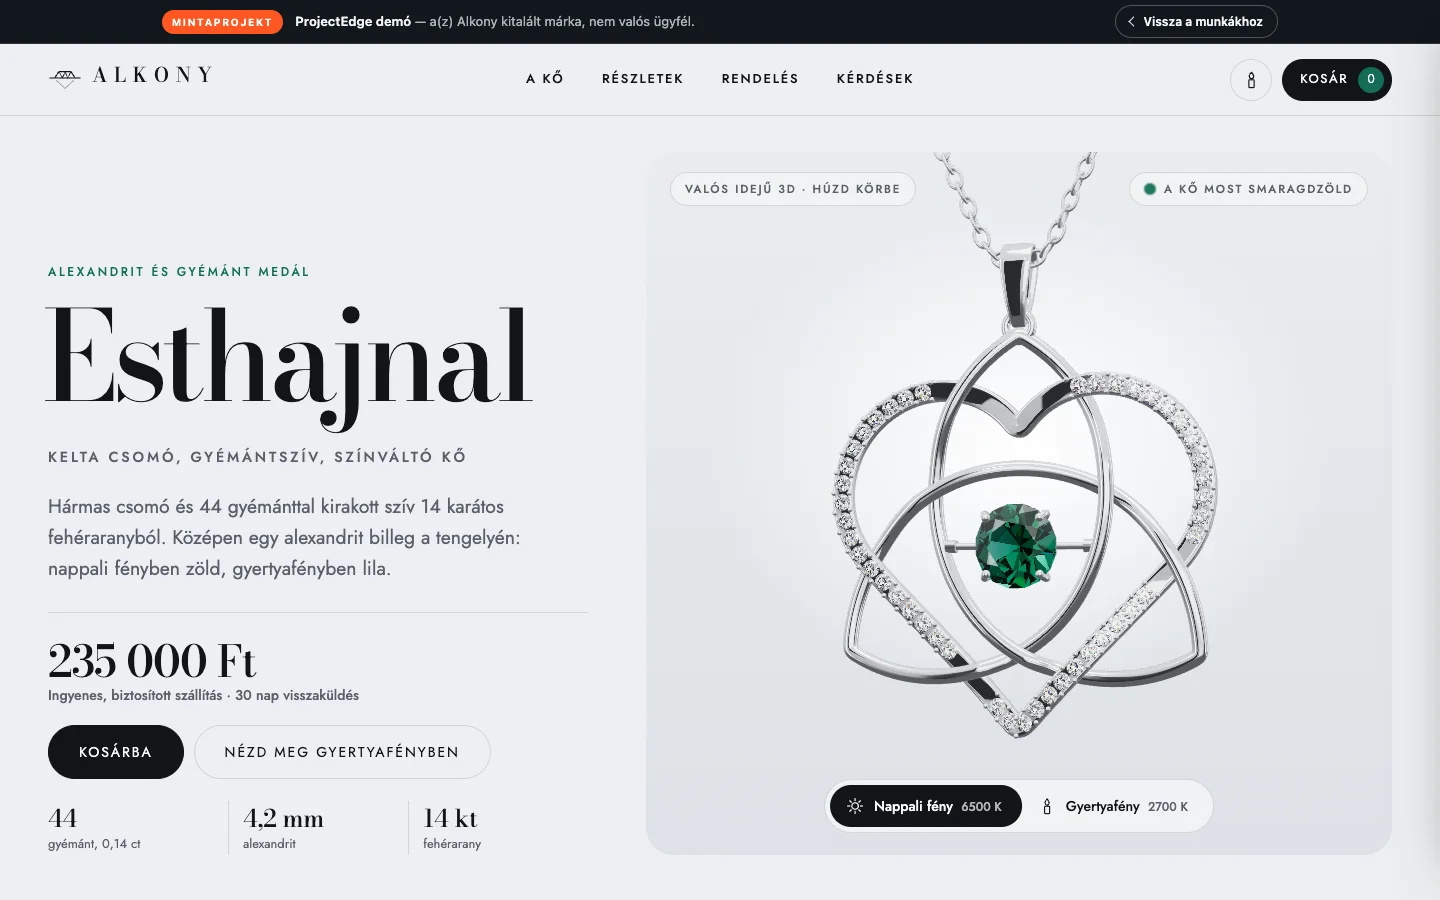
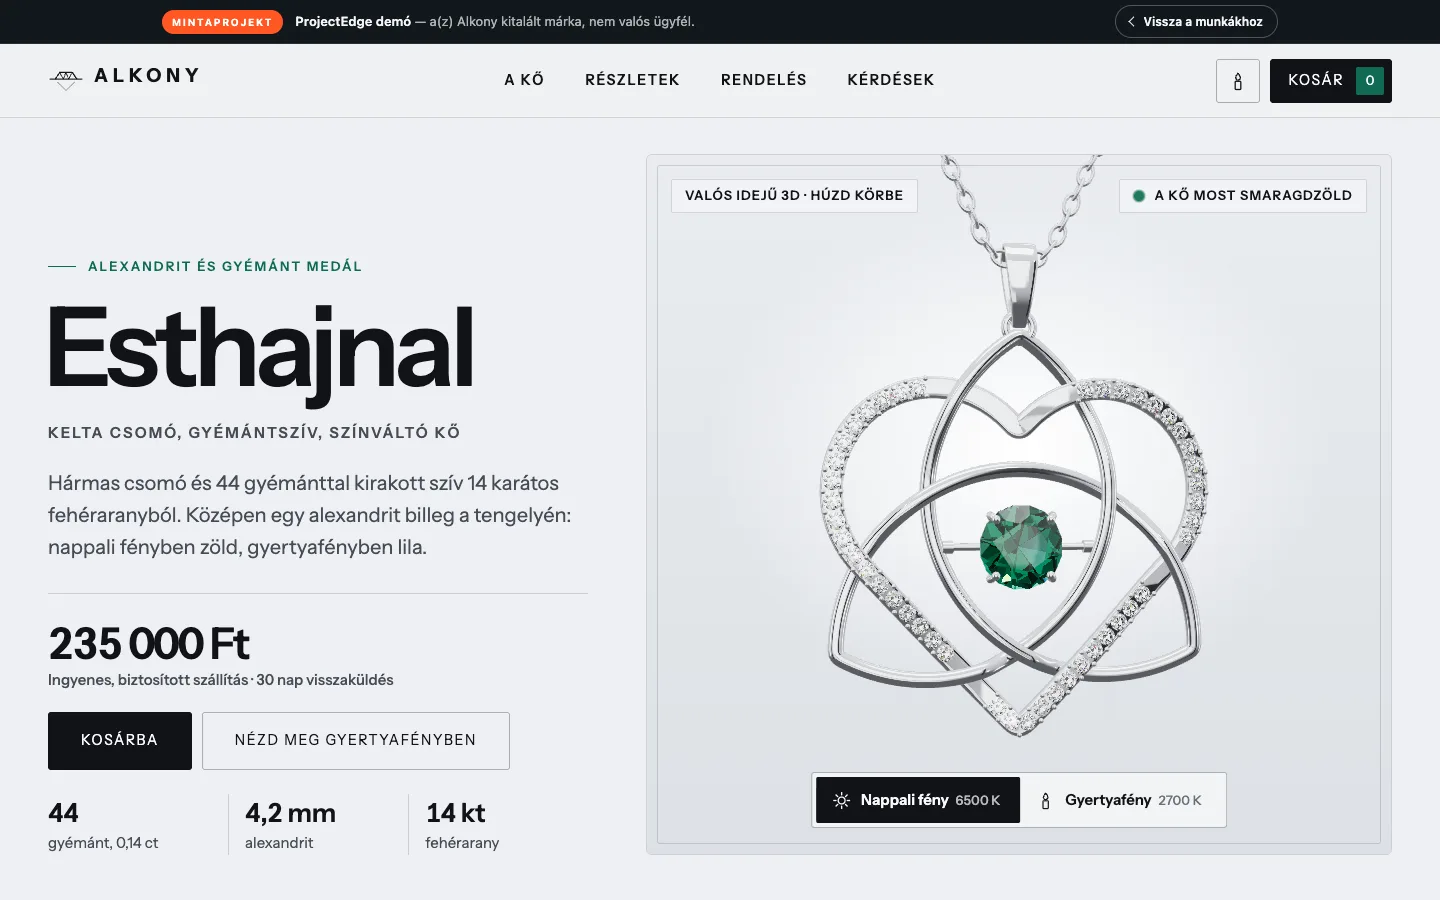
fix(demo): Alkony — Bodoni ki az egesz oldalrol, telefonon a ko a csuszka felett
A Didone betu (Esthajnal cim, logo, 235 000 Ft) hajszalvonalai nagy meretben
is vekonynak, zavaronak hattak: mostantol az egesz oldal Instrument Sans,
a cimek sulyat a 600-as vastagsag es a szuk betukoz adja.

Telefonon a ko kore fent, a fenyhomerseklet-csuszka a hosszu leiras utan
volt: huzas kozben a ko mar kint volt a kepbol. Most a szoveg jon elore,
a ko es a csuszka kozvetlenul egymas ala kerul, a kor merete pedig a
kepernyo magassagahoz igazodik, hogy egyutt latszodjanak (375x667-en is).

A munkak bélyegkepe ujrafotozva az uj allapotrol.

diff --git a/app/demo/alkony/alkony.css b/app/demo/alkony/alkony.css
@@ -4,9 +4,10 @@
    termék lényege — az alexandrit is ettől vált színt —, ezért az egész lap
    vele együtt áll át.
 
-   Tipográfia: a Bodoni csak NAGY méretben szerepel (H1, H2, nagy ár, logó).
-   Kicsiben a hajszálvonalai szálkásak és zavaróak voltak; minden más egy
-   erős groteszk, 15 px-es alsó határral és sötétebb másodlagos színnel.
+   Tipográfia: egyetlen erős groteszk mindenhol, 15 px-es alsó határral és
+   sötétebb másodlagos színnel. Didone (Bodoni) betű SEHOL — a hajszálvonalai
+   nagy címben és az árban is vékonynak, zavarónak hatottak. A címek súlyát
+   a méret, a 600-as vastagság és a szűk betűköz adja.
 
    Dobozok: ékszerdoboz-keret (hajszálvonal + belső második vonal), alig
    lekerekítve, árnyék nélkül — a lebegő, nagy sugarú kártyák SaaS-hatásúak
@@ -27,7 +28,6 @@
   --button-bg: #111317;
   --button-ink: #f9fafb;
   --r: 3px;
-  --display: var(--ak-display), "Bodoni Moda", Didot, serif;
   --sans: var(--ak-sans), "Instrument Sans", ui-sans-serif, system-ui, sans-serif;
   --ease: cubic-bezier(0.22, 1, 0.36, 1);
   --shift: 0.9s ease;
@@ -112,11 +112,10 @@
 }
 
 .ak-root h2 {
-  font-family: var(--display);
-  font-size: clamp(44px, 5.4vw, 80px);
-  font-weight: 500;
-  letter-spacing: -0.02em;
-  line-height: 1;
+  font-size: clamp(40px, 5vw, 72px);
+  font-weight: 600;
+  letter-spacing: -0.035em;
+  line-height: 1.02;
 }
 
 /* ─── logó ─────────────────────────────────────────────────────────────── */
@@ -133,11 +132,10 @@
 }
 
 .ak-logo-word {
-  font-family: var(--display);
-  font-size: 21px;
-  font-weight: 600;
-  letter-spacing: 0.3em;
-  margin-right: -0.3em;
+  font-size: 19px;
+  font-weight: 700;
+  letter-spacing: 0.26em;
+  margin-right: -0.26em;
   text-transform: uppercase;
 }
 
@@ -316,14 +314,13 @@
 }
 
 .ak-h1-name {
-  font-family: var(--display);
-  font-size: clamp(68px, 8.6vw, 140px);
-  font-weight: 500;
-  letter-spacing: -0.035em;
-  line-height: 0.86;
+  font-size: clamp(60px, 7.6vw, 124px);
+  font-weight: 600;
+  letter-spacing: -0.045em;
+  line-height: 0.92;
   margin-left: -0.04em;
-  /* a Bodoni „j" szára mélyre lóg: helyet kap, mielőtt az alcím jön */
-  padding-bottom: 0.2em;
+  /* a „j" szára lelóg: helyet kap, mielőtt az alcím jön */
+  padding-bottom: 0.12em;
 }
 
 .ak-h1-sub {
@@ -356,17 +353,16 @@
 
 .ak-price {
   display: grid;
-  font-family: var(--display);
-  font-size: clamp(40px, 3.3vw, 50px);
+  font-size: clamp(36px, 3vw, 46px);
+  font-variant-numeric: tabular-nums;
   font-weight: 600;
   gap: 6px;
-  letter-spacing: -0.01em;
+  letter-spacing: -0.03em;
   line-height: 1.02;
 }
 
 .ak-price small {
   color: var(--muted);
-  font-family: var(--sans);
   font-size: 15px;
   font-weight: 500;
   letter-spacing: 0;
@@ -1072,10 +1068,11 @@
 .ak-sheet-price {
   border-bottom: 1px solid var(--line);
   display: grid;
-  font-family: var(--display);
-  font-size: clamp(38px, 3.2vw, 48px);
+  font-size: clamp(34px, 2.9vw, 44px);
+  font-variant-numeric: tabular-nums;
   font-weight: 600;
   gap: 6px;
+  letter-spacing: -0.03em;
   line-height: 1;
   padding-bottom: 24px;
   transition: border-color var(--shift);
@@ -1083,9 +1080,9 @@
 
 .ak-sheet-price small {
   color: var(--muted);
-  font-family: var(--sans);
   font-size: 15px;
   font-weight: 500;
+  letter-spacing: 0;
 }
 
 .ak-chain {
@@ -1573,14 +1570,43 @@
     flex: 1 1 220px;
   }
 
+  /* Egymás alá téve a kő fölül, a csúszka a hosszú leírás után jött: húzás
+     közben a kő már kint volt a képből, a változást nem lehetett látni.
+     Telefonon ezért a szöveg megy előre, a kő és a csúszka pedig közvetlenül
+     egymás alá kerül — a kör akkorára méretezve, hogy a csúszkával együtt
+     egy képernyőn elférjen. */
   .ak-stone {
+    gap: 0;
     grid-template-columns: minmax(0, 1fr);
   }
 
+  .ak-stone-copy {
+    display: contents;
+  }
+
+  .ak-stone-copy > .ak-eyebrow { order: 1; }
+  .ak-stone-copy > h2 { order: 2; margin-top: 14px; }
+  .ak-stone-copy > p:not(.ak-eyebrow) { order: 3; margin-top: 18px; }
+
   .ak-macro {
     justify-self: center;
-    max-width: 520px;
+    margin-top: 32px;
+    max-width: min(520px, calc(100svh - var(--demo-bar-h, 0px) - 330px));
+    min-width: 240px;
+    order: 4;
     width: 100%;
+  }
+
+  .ak-kelvin {
+    border-top: 0;
+    margin-top: 6px;
+    order: 5;
+    padding-top: 16px;
+  }
+
+  .ak-dance {
+    margin-top: 26px;
+    order: 6;
   }
 
   .ak-order-head,

diff --git a/app/demo/alkony/page.tsx b/app/demo/alkony/page.tsx
@@ -1,21 +1,13 @@
 import type { Metadata } from "next";
-import { Bodoni_Moda, Instrument_Sans } from "next/font/google";
+import { Instrument_Sans } from "next/font/google";
 import { AlkonySite } from "./AlkonySite";
 import "./alkony.css";
 
-/* Didone a nagy címekhez és a márkanévhez (a divatlapok és ékszerházak
-   betűje) — de CSAK nagy méretben: kicsiben a hajszálvonalai szálkásak.
-   Minden más egy erős, nagy x-magasságú groteszk; a korábbi Jost kis
-   méretben vékonynak és aprónak hatott. `latin-ext` nélkül az ő és az ű
-   helyettesítő betűvel jelenne meg. */
-const display = Bodoni_Moda({
-  axes: ["opsz"],
-  display: "swap",
-  style: ["normal"],
-  subsets: ["latin-ext"],
-  variable: "--ak-display"
-});
-
+/* Egyetlen betűcsalád az egész oldalon: erős, nagy x-magasságú groteszk.
+   Korábban a nagy címek, a logó és az árak Bodoni (Didone) betűvel mentek,
+   de a hajszálvonalai még nagy méretben is vékonynak és zavarónak hatottak
+   — a hangsúlyt most a méret és a súly adja, nem a betű kontrasztja.
+   `latin-ext` nélkül az ő és az ű helyettesítő betűvel jelenne meg. */
 const sans = Instrument_Sans({ display: "swap", subsets: ["latin-ext"], variable: "--ak-sans" });
 
 export const metadata: Metadata = {
@@ -27,7 +19,7 @@ export const metadata: Metadata = {
 
 export default function AlkonyDemoPage() {
   return (
-    <div className={`${display.variable} ${sans.variable}`}>
+    <div className={sans.variable}>
       <AlkonySite />
     </div>
   );
